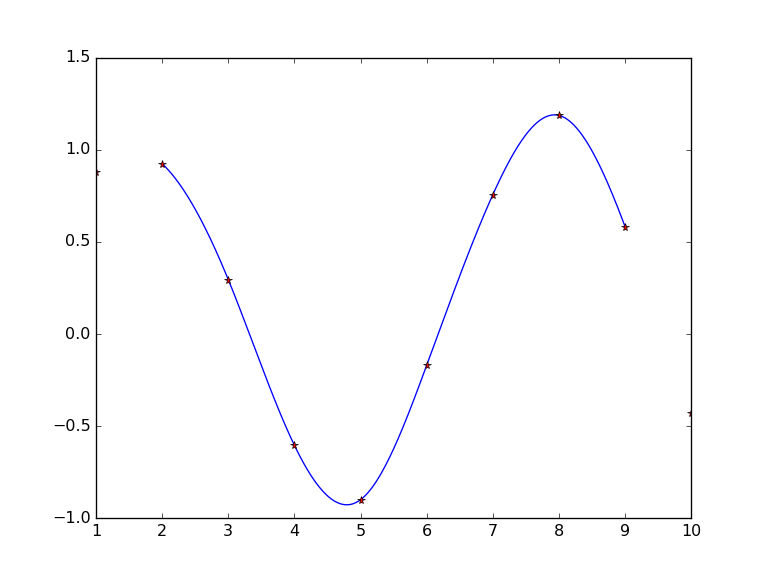
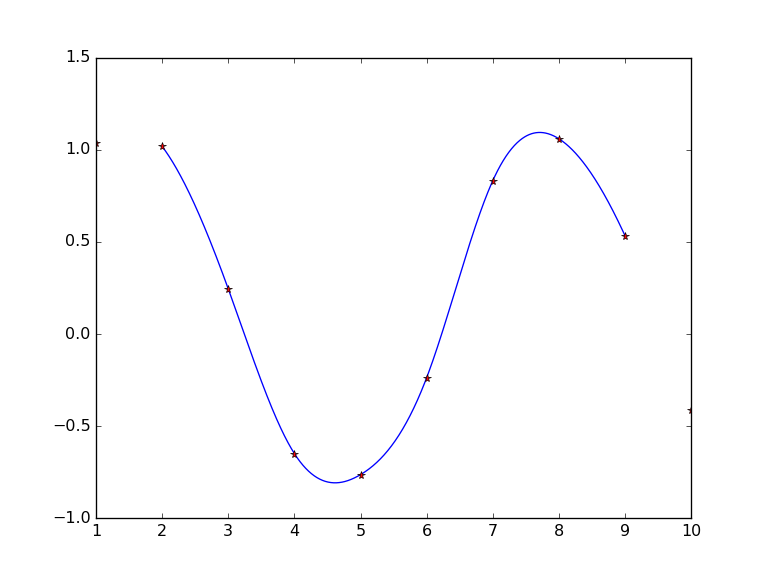
weaved first julia md

diff --git a/lectures/julia_install_arrays_packages/julia_install_arrays_packages.md b/lectures/julia_install_arrays_packages/julia_install_arrays_packages.md
@@ -1,5 +1,5 @@
 
-[](weave("lectures/julia_install_arrays_packages/julia_install_arrays_packages.mdw", plotlib="PyPlot", doctype="github")
+[](weave("lectures/julia_install_arrays_packages/julia_install_arrays_packages.mdw", plotlib="PyPlot", doctype="github"))
 
 
 #  Why I'm excited about Julia
@@ -101,7 +101,6 @@ julia> d = sin(a * b * π)
 ````
 
 
-![](figures/julia_install_arrays_packages_1_1.png)
 
 
 
@@ -159,9 +158,9 @@ julia> mat1 = [1.1 2.0 3; 4 5 6] # a matrix.
 
 julia> mat2 = randn(3,4)  # a matrix with N(0,1) entries.
 3x4 Array{Float64,2}:
-  0.207744  -0.505923   -1.01331    1.18486
- -0.496404  -0.0290163   0.303663  -1.02236
- -1.54354   -0.547974   -1.66146   -1.87705
+ -0.626719  -0.786839   -0.7275    1.73395 
+  0.266242  -0.21617    -0.285678  0.340494
+  2.8814    -0.0782368  -1.86271   0.107728
 
 julia> mat3 = zeros(2,2,2)  # a 2x2x2 multidimentional array
 2x2x2 Array{Float64,3}:
@@ -196,34 +195,34 @@ julia> row   = [1  2  4  6]  # rows are two dimensional
  1  2  4  6
 
 julia> mat2[1, 2] # first row, second column
--0.5059229769554402
+-0.7868385630749404
 
 julia> mat2[1, :] # first row
 1x4 Array{Float64,2}:
- 0.207744  -0.505923  -1.01331  1.18486
+ -0.626719  -0.786839  -0.7275  1.73395
 
 julia> mat2[:, 2] # second column...trailing degenerate dimensions are removed
 3-element Array{Float64,1}:
- -0.505923 
- -0.0290163
- -0.547974 
+ -0.786839 
+ -0.21617  
+ -0.0782368
 
 julia> mat2[1:3, 7:end] # matrix sub block
 3x0 Array{Float64,2}
 
 julia> mat2[:]  # stacks the columns
 12-element Array{Float64,1}:
-  0.207744 
- -0.496404 
- -1.54354  
- -0.505923 
- -0.0290163
-  ⋮        
-  0.303663 
- -1.66146  
-  1.18486  
- -1.02236  
- -1.87705  
+ -0.626719
+  0.266242
+  2.8814  
+ -0.786839
+ -0.21617 
+  ⋮       
+ -0.285678
+ -1.86271 
+  1.73395 
+  0.340494
+  0.107728
 
 ````
 
@@ -236,8 +235,8 @@ Arrays are mutable so you can allocate them and fill in their entries
 ````julia
 julia> mat5 = Array(Float64, 2,3)  # allocate a 2x3 array with Float64 entries
 2x3 Array{Float64,2}:
- 4.24399e-314  0.0  2.19807e-314
- 1.061e-314    0.0  2.23895e-314
+ 4.24399e-314  0.0  2.26914e-314
+ 1.061e-314    0.0  2.26914e-314
 
 julia> mat5[1,2] = 0  # change the 1,2 entry to 0.0
 0
@@ -248,7 +247,7 @@ julia> mat5[5] = 1000 # change the 5th entry (in column major ordering)
 julia> mat5
 2x3 Array{Float64,2}:
  4.24399e-314  0.0  1000.0         
- 1.061e-314    0.0     2.23895e-314
+ 1.061e-314    0.0     2.26914e-314
 
 julia> mat5[:,1] = 22 # change everything in first column to 22 and supress output
 22
@@ -256,12 +255,12 @@ julia> mat5[:,1] = 22 # change everything in first column to 22 and supress outp
 julia> mat5
 2x3 Array{Float64,2}:
  22.0  0.0  1000.0         
- 22.0  0.0     2.23895e-314
+ 22.0  0.0     2.26914e-314
 
 julia> mat5[:]   = rand(2,3)  # replace all entries of mat5 with U(0,1) entries
 2x3 Array{Float64,2}:
- 0.254848  0.366316  0.771549
- 0.590788  0.132704  0.196627
+ 0.348128   0.488032   0.963199
+ 0.0657757  0.0928857  0.938046
 
 ````
 
@@ -280,33 +279,33 @@ julia> mat1 = eye(2)
 
 julia> mat2 = randn(2,2)
 2x2 Array{Float64,2}:
- -1.38098  0.900008
-  1.16352  1.2803  
+ -1.62956   -0.0244404
+ -0.346205   0.927838 
 
 julia> mat2 .^ 2 # .^ is coordinstewise power
 2x2 Array{Float64,2}:
- 1.90712  0.810014
- 1.35377  1.63916 
+ 2.65547   0.000597332
+ 0.119858  0.860884   
 
 julia> exp(mat2)
 2x2 Array{Float64,2}:
- 0.251331  2.45962
- 3.20117   3.59771
+ 0.196016  0.975856
+ 0.707367  2.52904 
 
 julia> mat1 .* mat2
 2x2 Array{Float64,2}:
- -1.38098  0.0   
-  0.0      1.2803
+ -1.62956  -0.0     
+ -0.0       0.927838
 
 julia> mat2 .<= 0
 2x2 BitArray{2}:
-  true  false
- false  false
+ true   true
+ true  false
 
 julia> mat1 .<= mat2
 2x2 BitArray{2}:
- false  true
-  true  true
+ false  false
+ false  false
 
 ````
 
@@ -321,14 +320,11 @@ julia> mat2[mat2 .<= mat1] = -1
 
 julia> mat2
 2x2 Array{Float64,2}:
- -1.0      0.900008
-  1.16352  1.2803  
+ -1.0  -1.0
+ -1.0  -1.0
 
 julia> find(mat2 .≥ 0) # returns a vector of linear column-wise indices
-3-element Array{Int64,1}:
- 2
- 3
- 4
+0-element Array{Int64,1}
 
 ````
 
@@ -341,34 +337,34 @@ Built in linear algebra (from BLAS and LPACK)
 ````julia
 julia> mat2 = rand(3,3)
 3x3 Array{Float64,2}:
- 0.26007   0.162725  0.142675
- 0.774435  0.146265  0.383884
- 0.724349  0.109381  0.375491
+ 0.492941   0.769767   0.341974
+ 0.485163   0.0334111  0.794404
+ 0.0114348  0.882005   0.415657
 
 julia> mat2 = mat2 * mat2.' # matrix multiplication
 3x3 Array{Float64,2}:
- 0.114472  0.279979  0.259754
- 0.279979  0.768511  0.721106
- 0.259754  0.721106  0.67764 
+ 0.952478  0.536541  0.826718
+ 0.536541  0.867578  0.365216
+ 0.826718  0.365216  0.950834
 
 julia> d, v = eig(mat2)
-([0.00014932990712749123,0.013074035627661297,1.5473992461600308],
+([0.09730593408554283,0.5654481590928806,2.1081351758810247],
 3x3 Array{Float64,2}:
-  0.167992   0.951554   -0.257535
- -0.706458  -0.0659954  -0.704671
-  0.687529  -0.300316   -0.661146)
+ -0.746133   0.153183  -0.647935
+  0.222135  -0.860137  -0.459152
+  0.627648   0.486517  -0.60775 )
 
 julia> u  = chol(mat2)
 3x3 UpperTriangular{Float64,Array{Float64,2}}:
- 0.338337  0.827515  0.767736 
- 0.0       0.289361  0.296489 
- 0.0       0.0       0.0177538
+ 0.97595  0.549763   0.847091
+ 0.0      0.75189   -0.133641
+ 0.0      0.0        0.464124
 
 julia> l  = chol(mat2, Val{:L})
 3x3 LowerTriangular{Float64,Array{Float64,2}}:
- 0.338337  0.0       0.0      
- 0.827515  0.289361  0.0      
- 0.767736  0.296489  0.0177538
+ 0.97595    0.0       0.0     
+ 0.549763   0.75189   0.0     
+ 0.847091  -0.133641  0.464124
 
 ````
 
@@ -418,13 +414,13 @@ julia> x = sin(1 ./ linspace(.05, 0.5, 1_000))
 
 julia> plot(x, "r--")
 1-element Array{Any,1}:
- PyObject <matplotlib.lines.Line2D object at 0x32a50ce90>
+ PyObject <matplotlib.lines.Line2D object at 0x328331290>
 
 julia> title("My Plot")
-PyObject <matplotlib.text.Text object at 0x3298c8b10>
+PyObject <matplotlib.text.Text object at 0x3282fc910>
 
 julia> ylabel("red curve")
-PyObject <matplotlib.text.Text object at 0x3260cd750>
+PyObject <matplotlib.text.Text object at 0x328283d10>
 
 ````
 
@@ -438,7 +434,7 @@ PyObject <matplotlib.text.Text object at 0x3260cd750>
 
 ````julia
 julia> imshow(rand(100,100))
-PyObject <matplotlib.image.AxesImage object at 0x32b067210>
+PyObject <matplotlib.image.AxesImage object at 0x328421c50>
 
 ````
 
@@ -461,19 +457,19 @@ julia> x = 1:10
 
 julia> y = sin(x) + rand(10)/5
 10-element Array{Float64,1}:
-  0.879096
-  0.924553
-  0.295846
- -0.603455
- -0.898748
- -0.169629
-  0.756104
-  1.18645 
-  0.582592
- -0.42786 
+  1.03927 
+  1.01837 
+  0.245224
+ -0.648291
+ -0.762578
+ -0.236386
+  0.832584
+  1.05947 
+  0.532981
+ -0.412461
 
 julia> iy = scii.UnivariateSpline(x, y, s = 0) # python object
-PyObject <scipy.interpolate.fitpack2.InterpolatedUnivariateSpline object at 0x32b0a6290>
+PyObject <scipy.interpolate.fitpack2.InterpolatedUnivariateSpline object at 0x32845fc10>
 
 ````
 
@@ -507,7 +503,7 @@ julia> [println(k) for k in keys(iy)];
 We want the field that gives us the spline function
 ````julia
 julia> iy[:__call__]
-PyObject <bound method InterpolatedUnivariateSpline.__call__ of <scipy.interpolate.fitpack2.InterpolatedUnivariateSpline object at 0x32b0a6290>>
+PyObject <bound method InterpolatedUnivariateSpline.__call__ of <scipy.interpolate.fitpack2.InterpolatedUnivariateSpline object at 0x32845fc10>>
 
 ````
 
@@ -526,11 +522,11 @@ linspace(2.0,9.0,1000)
 
 julia> plot(xnew, yinterp(xnew))
 1-element Array{Any,1}:
- PyObject <matplotlib.lines.Line2D object at 0x32b110a90>
+ PyObject <matplotlib.lines.Line2D object at 0x332d08f50>
 
 julia> plot(x, y,"r*")
 1-element Array{Any,1}:
- PyObject <matplotlib.lines.Line2D object at 0x32b110c90>
+ PyObject <matplotlib.lines.Line2D object at 0x332d14190>
 
 ````
 
